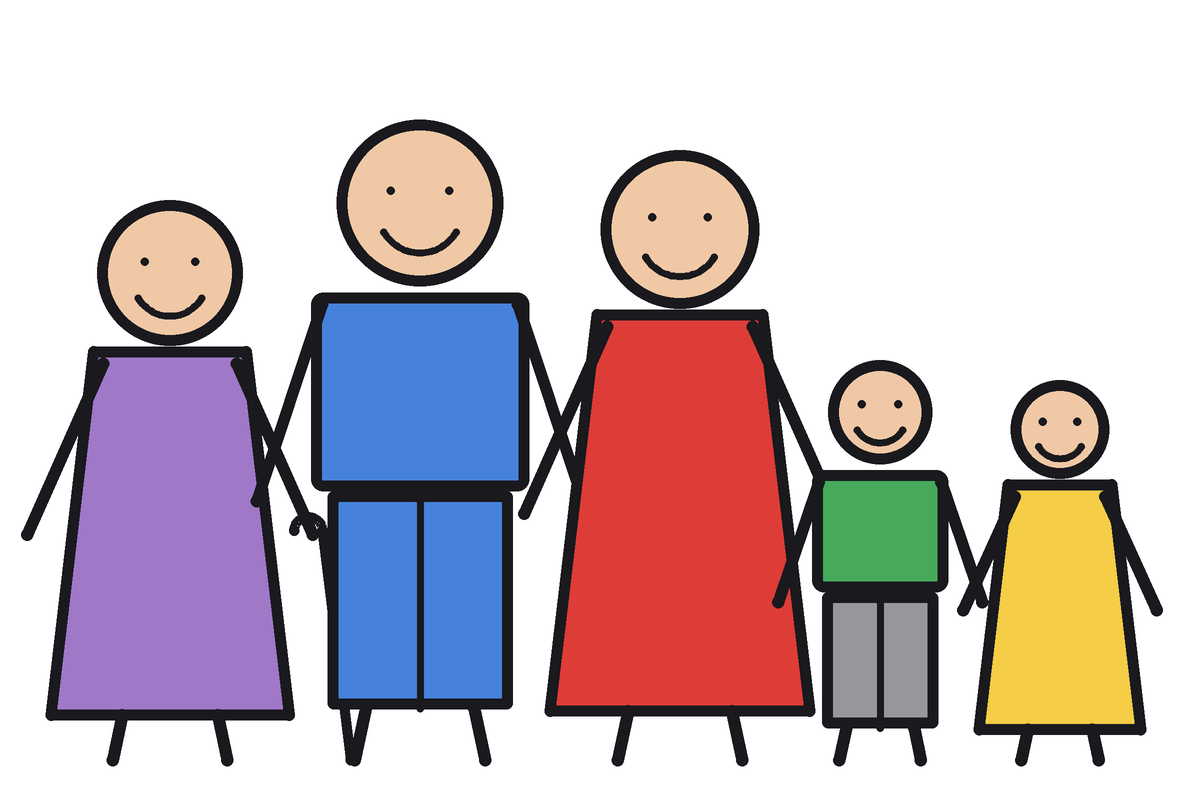
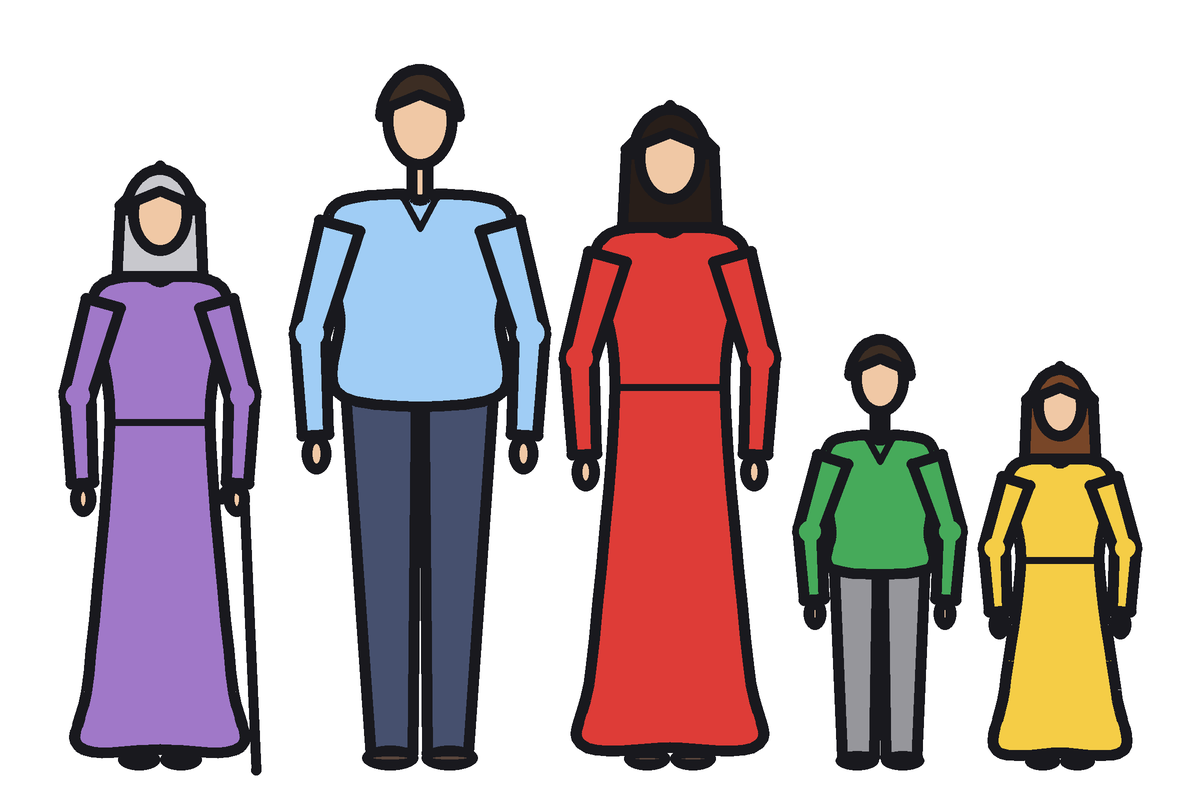
Whiteboard drawings: people with real body proportions and blank faces
Claude-Session: https://claude.ai/code/session_01QxHNsVEEH4evQ17iDsM5sX

diff --git a/youtube_agent/doodles.py b/youtube_agent/doodles.py
@@ -1,5 +1,6 @@
 """Simple whiteboard drawings (black outlines + flat colors on white, no words), made in code so they cost
-nothing. whiteboard.py's pen traces the outlines and then colors them in. Run:
+nothing. People always have real body proportions, modest clothes and a BLANK face (no eyes, nose or
+mouth: the owner's rule). whiteboard.py's pen traces the outlines and then colors them in. Run:
     python -m youtube_agent.doodles   -> branding/health-support-studio/whiteboard/drawings/*.png
 Keywords for each drawing are in drawings.yaml in the same folder."""
 from __future__ import annotations
@@ -68,30 +69,90 @@ class Pad:
         self.img.resize((self.img.width // S, self.img.height // S), Image.LANCZOS).save(OUT / name)
 
 
-def person(p: Pad, x, y, h, shirt, woman=False, cane=False, small=False):
-    """A friendly simple person standing at (x, feet y), modestly dressed."""
-    head = h * 0.13
-    hy = y - h + head
-    p.oval(x, hy, head, fill=SKIN)
-    p.arc(x, hy + head * 0.1, head * 0.5, 30, 150, 7)  # a small smile
-    p.oval(x - head * 0.35, hy - head * 0.15, 4, fill=INK)
-    p.oval(x + head * 0.35, hy - head * 0.15, 4, fill=INK)
-    top, waist = hy + head + 6, y - h * 0.42
-    sw = h * 0.17
-    if woman:  # a long dress
-        p.poly([(x - sw * 0.8, top), (x + sw * 0.8, top), (x + sw * 1.25, y - h * 0.08), (x - sw * 1.25, y - h * 0.08)],
-               shirt)
+def smooth(pts, n=8):
+    """A smooth closed curve through the points (rounded shoulders, bodies)."""
+    out = []
+    for i in range(len(pts)):
+        a, b, c, d = pts[i - 1], pts[i], pts[(i + 1) % len(pts)], pts[(i + 2) % len(pts)]
+        for k in range(n):
+            t = k / n
+            out.append(tuple(0.5 * (2 * b[j] + (-a[j] + c[j]) * t + (2 * a[j] - 5 * b[j] + 4 * c[j] - d[j]) * t * t
+                                    + (-a[j] + 3 * b[j] - 3 * c[j] + d[j]) * t ** 3) for j in (0, 1)))
+    return out
+
+
+def _arm(p: Pad, shoulder, elbow, wrist, u, cloth):
+    """A long-sleeved arm bent a little at the elbow, with the hand."""
+    p.poly(_limb(shoulder, elbow, 0.44 * u, 0.34 * u), cloth)
+    p.poly(_limb(elbow, wrist, 0.34 * u, 0.28 * u), cloth)
+    p.d.ellipse([(elbow[0] - 0.15 * u) * S, (elbow[1] - 0.15 * u) * S, (elbow[0] + 0.15 * u) * S,
+                 (elbow[1] + 0.15 * u) * S], fill=cloth)  # hides the seam at the elbow
+    dx, dy = wrist[0] - elbow[0], wrist[1] - elbow[1]
+    L = math.hypot(dx, dy) or 1
+    p.oval(wrist[0] + dx / L * 0.2 * u, wrist[1] + dy / L * 0.2 * u, 0.16 * u, 0.22 * u, fill=SKIN)
+
+
+def _limb(a, b, w0, w1):
+    """A tapered limb from point a to point b (a 4-corner shape), w0/w1 = width at each end."""
+    (ax, ay), (bx, by) = a, b
+    L = math.hypot(bx - ax, by - ay) or 1
+    nx, ny = -(by - ay) / L, (bx - ax) / L
+    return [(ax + nx * w0 / 2, ay + ny * w0 / 2), (bx + nx * w1 / 2, by + ny * w1 / 2),
+            (bx - nx * w1 / 2, by - ny * w1 / 2), (ax - nx * w0 / 2, ay - ny * w0 / 2)]
+
+
+def _head(p: Pad, cx, cy, u, hair, long_hair=False, side=0):
+    """A head with hair and NO face (no eyes, nose or mouth): the channel's style for people."""
+    rx, ry = 0.40 * u, 0.52 * u
+    if long_hair:  # behind the head, down to the shoulders
+        p.poly([(cx - rx * 1.25, cy - ry * 0.2), (cx - rx * 1.35, cy + ry * 1.5), (cx + rx * 1.35, cy + ry * 1.5),
+                (cx + rx * 1.25, cy - ry * 0.2), (cx, cy - ry * 1.15)], hair)
+    p.oval(cx, cy, rx, ry, fill=SKIN)
+    top = [(cx + rx * 1.06 * math.cos(math.radians(a)), cy + ry * 1.08 * math.sin(math.radians(a)))
+           for a in range(185, 356, 10)]
+    fringe = [(cx + rx * 0.95, cy - ry * 0.25), (cx + side * rx * 0.3, cy - ry * 0.55), (cx - rx * 0.95, cy - ry * 0.25)]
+    p.poly(top + fringe, hair)
+
+
+def person(p: Pad, x, y, h, shirt, pants=None, woman=False, cane=False, kid=False, hair=None):
+    """A standing person with real body proportions, modestly dressed (long sleeves; trousers or a long
+    dress), seen from the front, feet at (x, y). The face is left blank on purpose."""
+    u = h / (6.0 if kid else 7.5)  # one head-height
+    hair = hair or BROWN
+    pants = pants or (GRAY if kid else BLUE)
+    shoes = (90, 70, 60)
+    hy = y - h + 0.55 * u
+    ys = y - h + 1.45 * u  # shoulders
+    sw = (0.80 if kid else 0.85 if woman else 1.0) * u
+    waist = ys + (1.7 if kid else 2.0) * u
+    p.rect(x - 0.14 * u, hy + 0.3 * u, 0.28 * u, 0.6 * u, fill=SKIN)  # neck
+    shoulders = [(x - 0.22 * u, ys - 0.12 * u), (x - sw + 0.12 * u, ys - 0.02 * u), (x - sw, ys + 0.4 * u)]
+    if woman:
+        for sx in (-1, 1):  # shoes under the dress
+            p.oval(x + sx * 0.26 * u, y - 0.13 * u, 0.26 * u, 0.13 * u, fill=shoes)
+        left = shoulders + [(x - sw * 0.74, waist - 0.3 * u), (x - sw * 1.05, y - 1.2 * u), (x - sw * 1.2, y - 0.3 * u)]
+        p.poly(smooth(left + [(x, y - 0.26 * u)] + [(2 * x - a, b) for a, b in reversed(left)] + [(x, ys - 0.05 * u)]),
+               shirt)  # a long dress
+        p.line([(x - sw * 0.72, waist - 0.3 * u), (x + sw * 0.72, waist - 0.3 * u)], 7)
     else:
-        p.rect(x - sw, top, sw * 2, waist - top, fill=shirt, r=12)
-        p.rect(x - sw * 0.85, waist, sw * 1.7, y - h * 0.08 - waist, fill=BLUE if not small else GRAY, r=6)
-        p.line([(x, waist + 10), (x, y - h * 0.08)], 7)
-    p.line([(x - sw * 0.5, y - h * 0.08), (x - sw * 0.6, y)], 12)
-    p.line([(x + sw * 0.5, y - h * 0.08), (x + sw * 0.6, y)], 12)
-    p.line([(x - sw * (0.9 if not woman else 0.7), top + 12), (x - sw * 1.5, waist + 10)], 12)
-    p.line([(x + sw * (0.9 if not woman else 0.7), top + 12), (x + sw * 1.5, waist + 10)], 12)
+        for sx in (-1, 1):  # legs and shoes
+            p.poly([(x + sx * sw * 0.80, waist - 0.1 * u), (x + sx * 0.04 * u, waist - 0.1 * u),
+                    (x + sx * 0.08 * u, y - 0.18 * u), (x + sx * 0.52 * u, y - 0.18 * u)], pants)
+            p.oval(x + sx * 0.32 * u, y - 0.13 * u, 0.3 * u, 0.13 * u, fill=shoes)
+        left = shoulders + [(x - sw * 0.86, ys + 1.2 * u), (x - sw * 0.82, waist + 0.05 * u)]
+        p.poly(smooth(left + [(2 * x - a, b) for a, b in reversed(left)] + [(x, ys - 0.05 * u)]), shirt)
+        p.line([(x - 0.18 * u, ys - 0.08 * u), (x, ys + 0.25 * u), (x + 0.18 * u, ys - 0.08 * u)], 7)  # collar
+    arm = (1.0 if kid else 1.15) * u
+    for sx in (-1, 1):  # long sleeves, a little bent, then the hands
+        sh = (x + sx * (sw - 0.14 * u), ys + 0.22 * u)
+        el = (x + sx * (sw + 0.18 * u), ys + 0.22 * u + arm)
+        wr = (x + sx * (sw + 0.12 * u), ys + 0.22 * u + 1.95 * arm)
+        _arm(p, sh, el, wr, u, shirt)
     if cane:
-        p.line([(x + sw * 1.6, waist + 6), (x + sw * 1.9, y)], 10)
-        p.arc(x + sw * 1.6 - 14, waist + 6, 14, 180, 360, 10)
+        hx, hy2 = x + sw + 0.2 * u, ys + 0.22 * u + 1.95 * arm + 0.2 * u
+        p.line([(hx, hy2), (hx + 0.15 * u, y)], 10)
+        p.arc(hx - 0.14 * u, hy2, 0.14 * u, 180, 360, 10)
+    _head(p, x, hy, u, hair, long_hair=woman)
 
 
 def ambulance():
@@ -153,11 +214,11 @@ def lungs():
 
 def family():
     p = Pad(1200, 800)
-    person(p, 170, 760, 560, PURPLE, woman=True, cane=True)  # grandmother
-    person(p, 420, 760, 640, BLUE)  # father
-    person(p, 680, 760, 610, RED, woman=True)  # mother
-    person(p, 880, 760, 400, GREEN, small=True)  # boy
-    person(p, 1060, 760, 380, YEL, woman=True)  # girl
+    person(p, 160, 770, 600, PURPLE, woman=True, cane=True, hair=(200, 200, 205))  # grandmother
+    person(p, 420, 770, 700, LBLUE, pants=(70, 80, 110), hair=(60, 45, 35))  # father
+    person(p, 670, 770, 660, RED, woman=True, hair=(40, 30, 25))  # mother
+    person(p, 880, 770, 430, GREEN, kid=True, hair=(60, 45, 35))  # boy
+    person(p, 1060, 770, 400, YEL, woman=True, kid=True, hair=(120, 70, 40))  # girl
     p.save("family.png")
 
 
@@ -293,9 +354,7 @@ def sleep():
     p.rect(80, 300, 60, 400, fill=BROWN, r=10)
     p.rect(860, 380, 60, 320, fill=BROWN, r=10)
     p.rect(160, 360, 200, 90, fill="white", r=40)  # pillow
-    p.oval(270, 340, 70, fill=SKIN)
-    p.arc(250, 330, 22, 20, 160, 7)
-    p.arc(300, 330, 22, 20, 160, 7)
+    _head(p, 270, 345, 135, (60, 45, 35))  # no face
     p.rect(330, 380, 530, 130, fill=PURPLE, r=30)  # blanket
     moon = [(760 + 110 * math.cos(math.radians(a)), 150 + 110 * math.sin(math.radians(a))) for a in range(60, 301, 6)]
     moon += [(800 + 85 * math.cos(math.radians(a)), 150 + 85 * math.sin(math.radians(a))) for a in range(270, 89, -6)]
@@ -307,18 +366,27 @@ def sleep():
 
 
 def walking():
-    p = Pad(800, 860)
-    x, y, h = 400, 800, 720
-    head = h * 0.12
-    p.oval(x + 20, y - h + head, head, fill=SKIN)
-    top, hip = y - h + 2 * head + 6, y - h * 0.42
-    p.poly([(x - 55, top), (x + 75, top), (x + 70, hip), (x - 50, hip)], GREEN)
-    p.line([(x, hip), (x - 120, y - 150), (x - 170, y - 20)], 18)
-    p.line([(x + 20, hip), (x + 110, y - 170), (x + 190, y - 40)], 18)
-    p.line([(x - 40, top + 20), (x - 130, hip - 40)], 14)
-    p.line([(x + 60, top + 20), (x + 150, hip + 20)], 14)
+    """A person walking, seen from the side (no face)."""
+    p = Pad(760, 900)
+    u, x, y = 112, 380, 860
+    ys, hip = y - 6.05 * u, y - 3.55 * u
+    back_leg = [(x - 0.1 * u, hip), (x - 0.8 * u, y - 1.7 * u), (x - 1.25 * u, y - 0.2 * u)]
+    front_leg = [(x + 0.1 * u, hip), (x + 0.6 * u, y - 1.8 * u), (x + 1.05 * u, y - 0.2 * u)]
+    for leg, shade in ((back_leg, (55, 65, 95)), (front_leg, (70, 80, 110))):
+        p.poly(_limb(leg[0], leg[1], 0.62 * u, 0.42 * u), shade)
+        p.poly(_limb(leg[1], leg[2], 0.42 * u, 0.32 * u), shade)
+        p.oval(leg[2][0] + 0.18 * u, y - 0.12 * u, 0.36 * u, 0.13 * u, fill=(90, 70, 60))
+    _arm(p, (x - 0.05 * u, ys + 0.3 * u), (x - 0.55 * u, ys + 1.3 * u), (x - 0.7 * u, ys + 2.2 * u), u,
+         (50, 140, 75))  # back arm
+    p.rect(x - 0.13 * u, ys - 0.75 * u, 0.3 * u, 0.6 * u, fill=SKIN)  # neck
+    p.poly(smooth([(x - 0.25 * u, ys - 0.12 * u), (x - 0.55 * u, ys + 0.2 * u), (x - 0.55 * u, ys + 1.3 * u),
+                   (x - 0.5 * u, hip + 0.1 * u), (x + 0.5 * u, hip + 0.1 * u), (x + 0.6 * u, ys + 1.2 * u),
+                   (x + 0.45 * u, ys + 0.1 * u), (x + 0.2 * u, ys - 0.12 * u)]), GREEN)  # body
+    _arm(p, (x + 0.05 * u, ys + 0.3 * u), (x + 0.35 * u, ys + 1.3 * u), (x + 0.85 * u, ys + 2.0 * u), u,
+         GREEN)  # front arm
+    _head(p, x + 0.05 * u, ys - 1.05 * u, u, (60, 45, 35), side=1)
     for k in range(3):
-        p.line([(120, 300 + k * 70), (190, 300 + k * 70)], 9)
+        p.line([(60, 330 + k * 70), (130, 330 + k * 70)], 9)
     p.save("walking.png")
 
 
